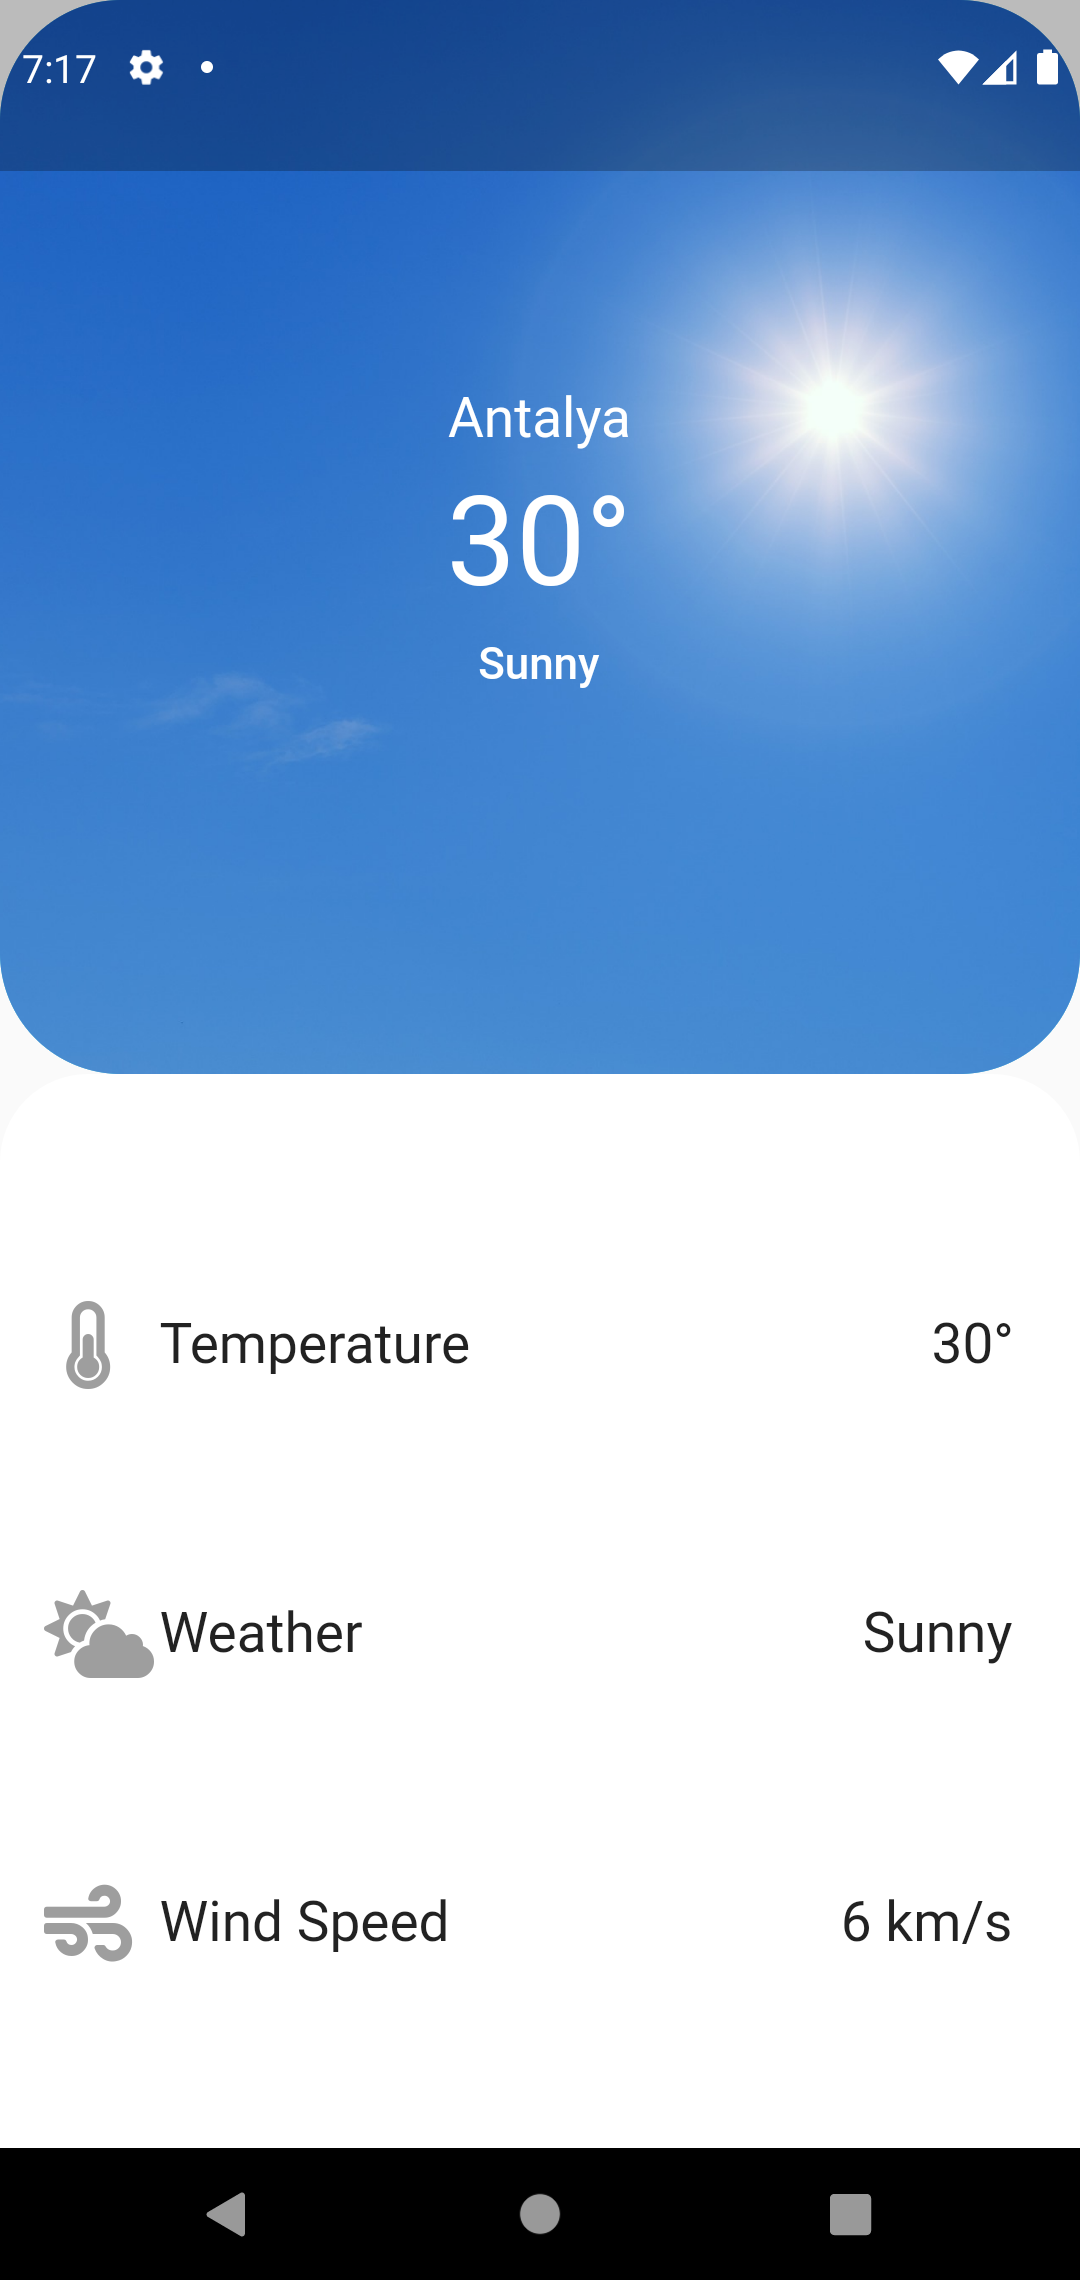
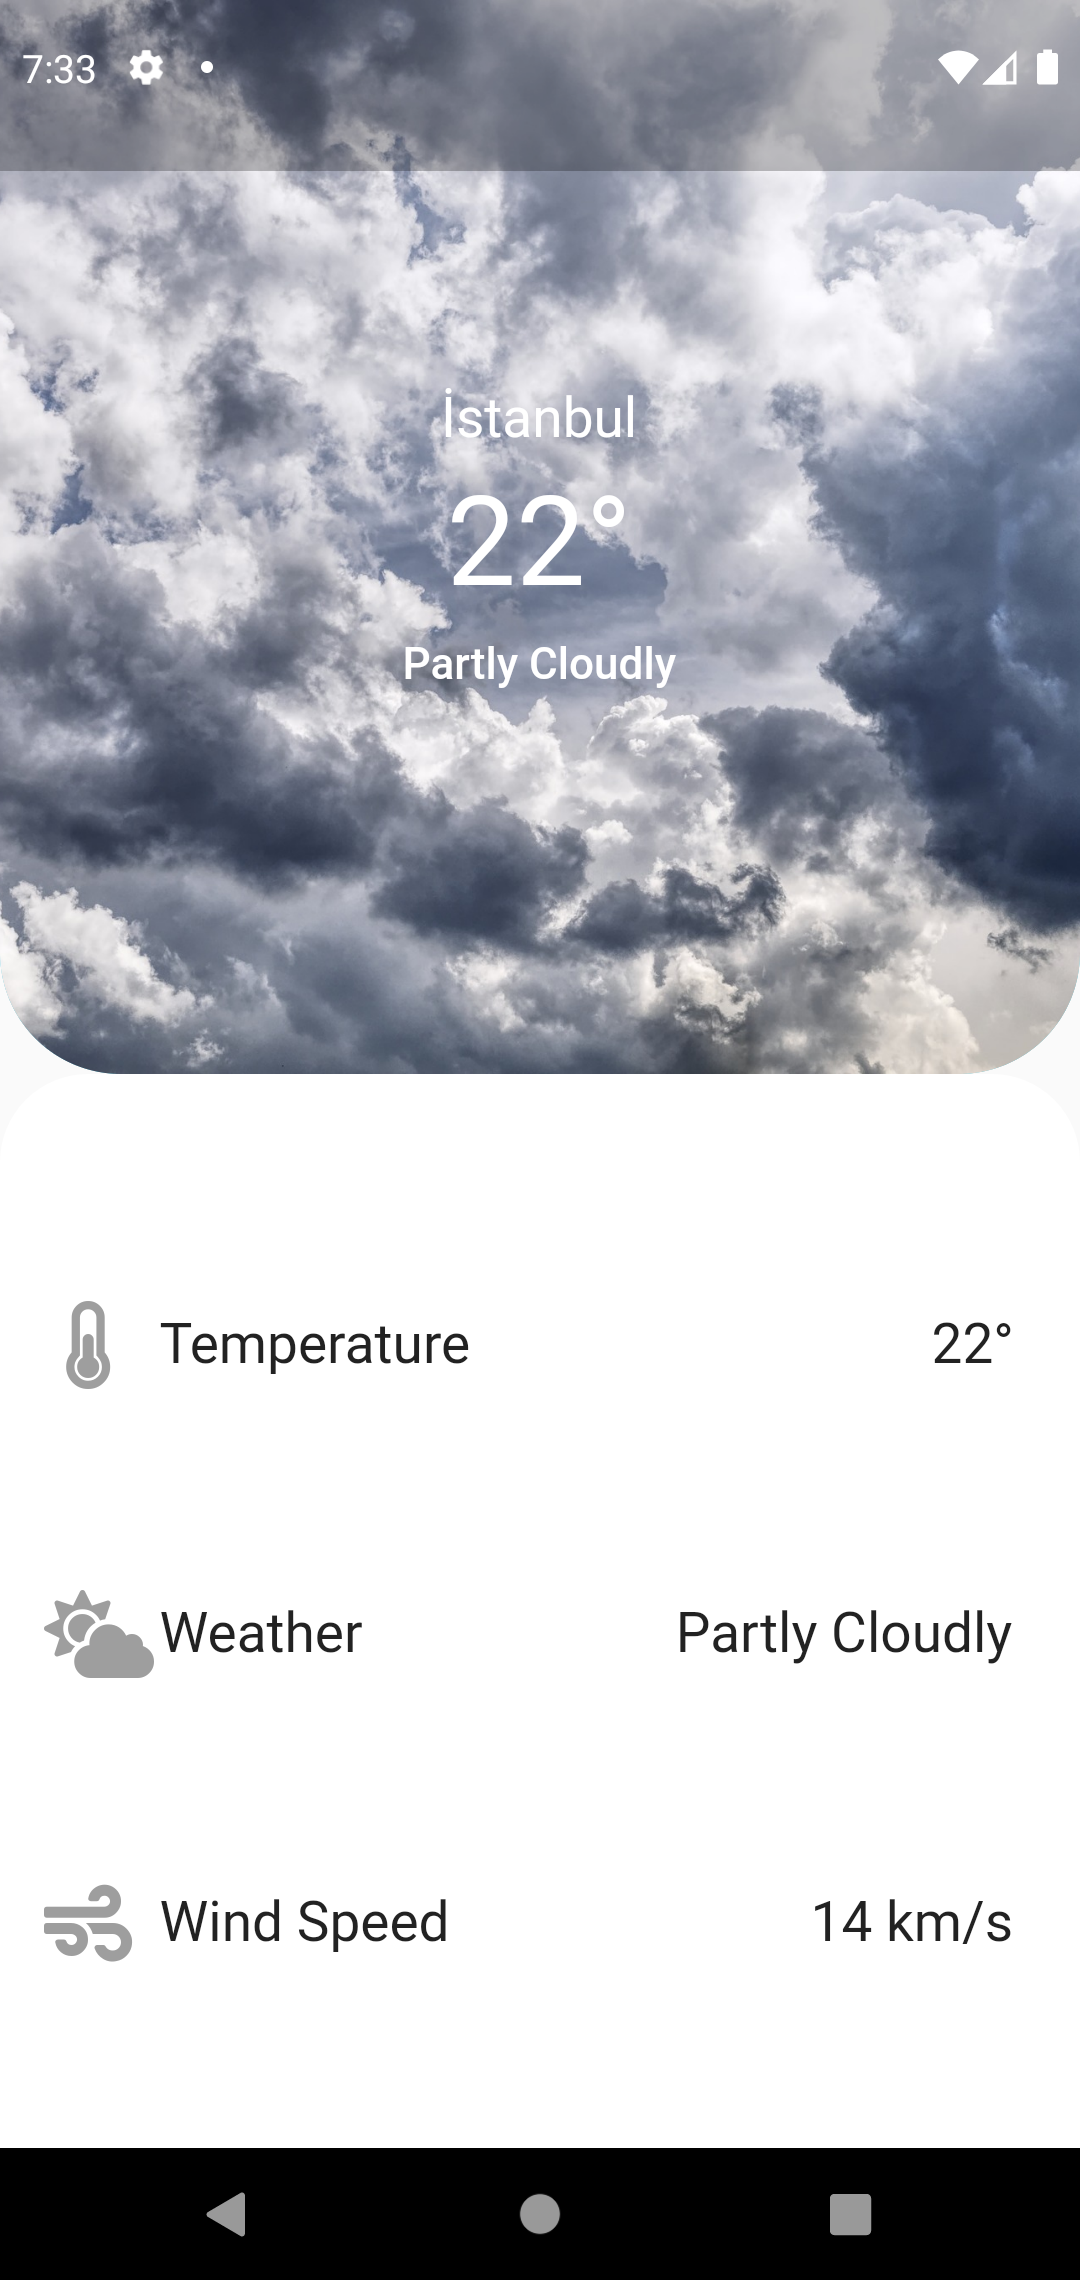
push

diff --git a/lib/home/home.dart b/lib/home/home.dart
@@ -49,8 +49,8 @@ class _MyHomePageState extends State<MyHomePage> {
       width: double.infinity,
       height: MediaQuery.of(context).size.height / 2,
       decoration: BoxDecoration(
-        image: DecorationImage(image: AssetImage("assets/partly_cloudly.jpg"), fit: BoxFit.cover),
-        borderRadius: BorderRadius.circular(44),
+        image: DecorationImage(image: AssetImage("assets/sun.jpg"), fit: BoxFit.cover),
+        borderRadius: BorderRadius.vertical(bottom: Radius.circular(44)),
         color: Color(0xFF4AC7DD),
       ),
       child: Column(
@@ -60,7 +60,7 @@ class _MyHomePageState extends State<MyHomePage> {
           Padding(
             padding: EdgeInsets.fromLTRB(0, 8, 0, 8),
             child: Text(
-              "İstanbul",
+              "Antalya",
               style: TextStyle(fontSize: Theme.of(context).textTheme.headline6!.fontSize, color: Colors.white),
             ),
           ),
@@ -74,7 +74,7 @@ class _MyHomePageState extends State<MyHomePage> {
           
           */
           Text(
-            "22\u00B0",
+            "30\u00B0",
             style: TextStyle(
               fontSize: Theme.of(context).textTheme.headline3!.fontSize,
               color: Colors.white,

diff --git a/lib/home/elements/more_info.dart b/lib/home/elements/more_info.dart
@@ -18,11 +18,11 @@ buildMoreInfo(BuildContext context) {
               padding: const EdgeInsets.all(8.0),
               child: ListView(
                 children: [
-                  buildInfo(context, FontAwesomeIcons.thermometerHalf, "Temperature", "22\u00B0"),
+                  buildInfo(context, FontAwesomeIcons.thermometerHalf, "Temperature", "30\u00B0"),
                   SizedBox(height: 50),
-                  buildInfo(context, FontAwesomeIcons.cloudSun, "Weather", "Partly Coludly"),
+                  buildInfo(context, FontAwesomeIcons.cloudSun, "Weather", "Sunny"),
                   SizedBox(height: 50),
-                  buildInfo(context, FontAwesomeIcons.wind, "Wind Speed", "14 km/s"),
+                  buildInfo(context, FontAwesomeIcons.wind, "Wind Speed", "4 km/s"),
                 ],
               ),
             ),
